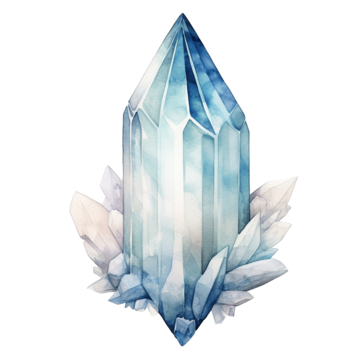
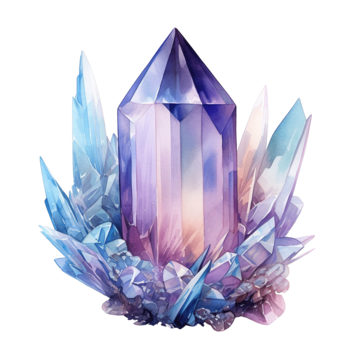
updated game logic and moonstone image

diff --git a/game.js b/game.js
@@ -63,7 +63,7 @@ const recipes = [
             Herb: 1, 
             Mushroom: 1, 
             Pearl: 1, 
-            Moonstone : 1,
+            Moonstone : 2,
         }
     }
 ];
@@ -212,7 +212,10 @@ function checkRecipeMatch() {
         let coinsEarned = 5;
         if (currentRecipe.name === "Potion IV" || currentRecipe.name === "Potion V") {
             coinsEarned = 10;
+        } else if (currentRecipe.name === "Potion VI") {
+            coinsEarned = 15;
         }
+        
         coins += coinsEarned;
         cauldronText.innerText = `You've earned ${coinsEarned} coins and 3 seconds!`;
         coinsDisplay.innerText = ` ${coins}`;
@@ -329,14 +332,16 @@ function startTimer(duration) {
 
 function displayRandomRecipe() {
     let recipePool;
-    if (matchCount < 3) {
-        // First three matches, use the first three recipes
+    if (matchCount < 2) {
+        // First two matches, use the first three recipes
         recipePool = recipes.slice(0, 3);
-    } else {
-        // After the first three matches, use the next three recipes
-        recipePool = recipes.slice(3, 6);
-        // Show Pearl and Moonstone starting from match 4
+    } else if (matchCount >= 2 && matchCount < 4) {
+        // Matches 2 to 4, use the next two recipes and show special ingredients
+        recipePool = recipes.slice(2, 4);
         showSpecialIngredients();
+    } else {
+        // Matches 4 and above, use the last two recipes
+        recipePool = recipes.slice(4, 6);
     }
 
     const randomIndex = Math.floor(Math.random() * recipePool.length);
@@ -412,7 +417,7 @@ function reset() {
       element.classList.remove('hidden'); // Reset visibility
     });
 
-    if (matchCount < 4) {
+    if (matchCount < 3) {
         // Hide Pearl and Moonstone if match count is less than 3
         hideSpecialIngredients();
     }

diff --git a/game.html b/game.html
@@ -85,10 +85,9 @@
     <div class="yes-drop drag-drop ingredient hidden" alt="Herb" id="ingredient1-2" draggable="true">Herb</div>
     <div class="yes-drop drag-drop ingredient hidden" alt="Pearl" id="ingredient4-0" draggable="true">Pearl</div>
     <div class="yes-drop drag-drop ingredient hidden" alt="Pearl" id="ingredient4-1" draggable="true">Pearl</div>
-    <div class="yes-drop drag-drop ingredient hidden" alt="Pearl" id="ingredient4-2" draggable="true">Pearl</div>
     <div class="yes-drop drag-drop ingredient hidden" alt="Moonstone" id="ingredient5-0" draggable="true">Moonstone</div>
     <div class="yes-drop drag-drop ingredient hidden" alt="Moonstone" id="ingredient5-1" draggable="true">Moonstone</div>
-    <div class="yes-drop drag-drop ingredient hidden" alt="Moonstone" id="ingredient5-2" draggable="true">Moonstone</div>
+    
     
 
 
